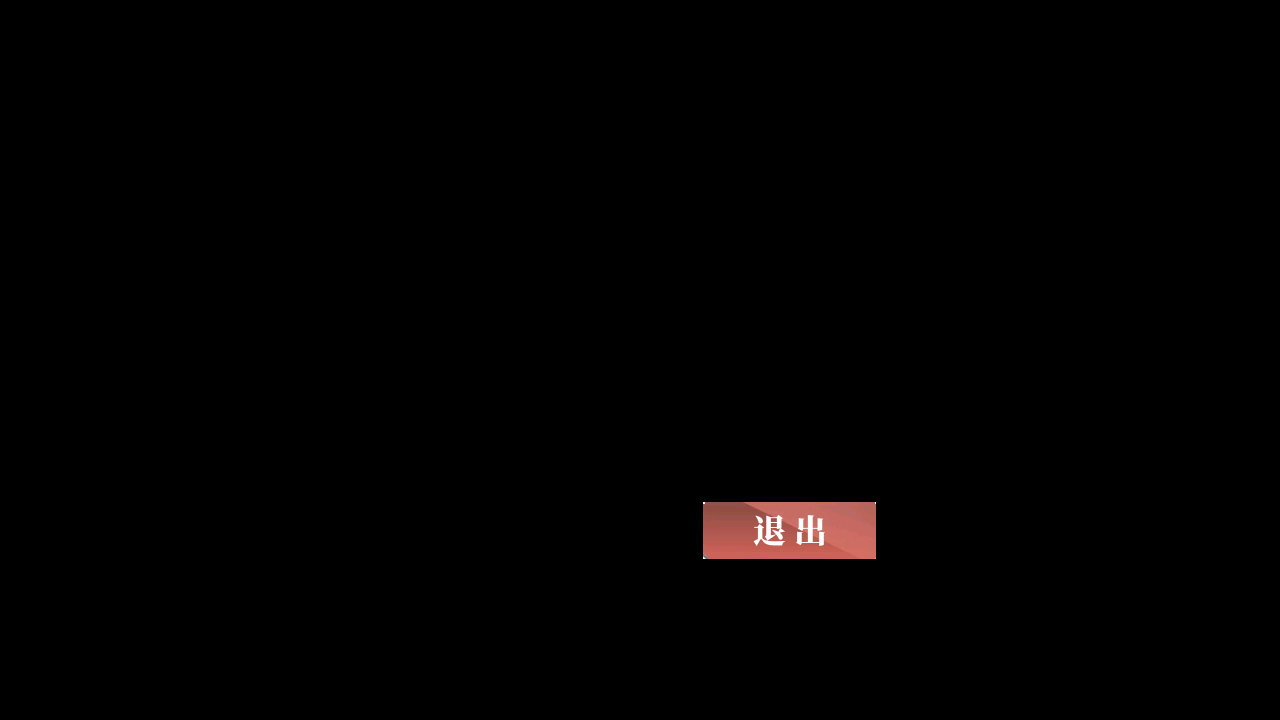
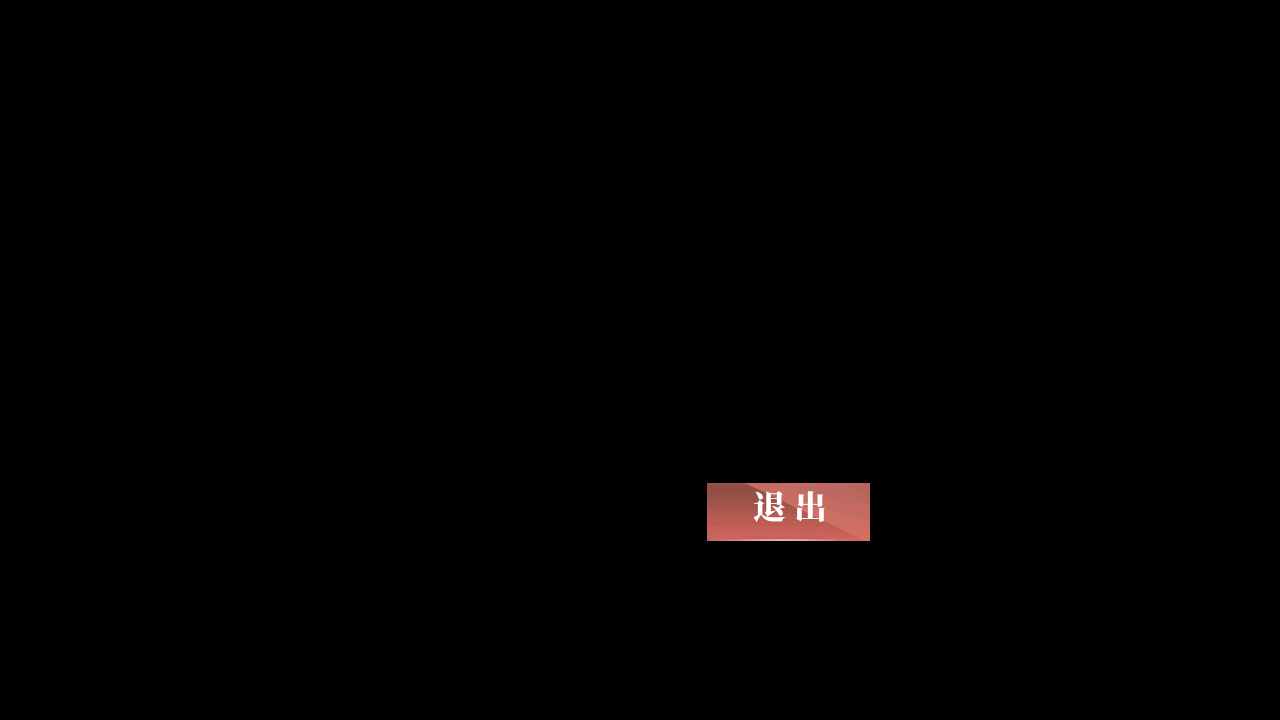
Fix:[TW]exercise QUIT_RECONFIRM.png

Changed region(s): [[0.5312, 0.6722, 0.6875, 0.7944]]

diff --git a/module/exercise/assets.py b/module/exercise/assets.py
@@ -18,4 +18,4 @@ OPPONENT_2 = Button(area={'cn': (348, 77, 560, 381), 'en': (348, 77, 562, 381), 
 OPPONENT_3 = Button(area={'cn': (592, 77, 804, 381), 'en': (592, 77, 806, 381), 'jp': (592, 77, 804, 381), 'tw': (592, 77, 804, 381)}, color={'cn': (106, 131, 158), 'en': (105, 129, 156), 'jp': (106, 131, 158), 'tw': (106, 131, 158)}, button={'cn': (592, 77, 804, 381), 'en': (592, 77, 806, 381), 'jp': (592, 77, 804, 381), 'tw': (592, 77, 804, 381)}, file={'cn': './assets/cn/exercise/OPPONENT_3.png', 'en': './assets/en/exercise/OPPONENT_3.png', 'jp': './assets/jp/exercise/OPPONENT_3.png', 'tw': './assets/tw/exercise/OPPONENT_3.png'})
 OPPONENT_4 = Button(area={'cn': (836, 77, 1048, 381), 'en': (836, 77, 1050, 381), 'jp': (836, 77, 1048, 381), 'tw': (836, 77, 1048, 381)}, color={'cn': (103, 118, 141), 'en': (112, 127, 152), 'jp': (103, 118, 141), 'tw': (103, 118, 141)}, button={'cn': (836, 77, 1048, 381), 'en': (836, 77, 1050, 381), 'jp': (836, 77, 1048, 381), 'tw': (836, 77, 1048, 381)}, file={'cn': './assets/cn/exercise/OPPONENT_4.png', 'en': './assets/en/exercise/OPPONENT_4.png', 'jp': './assets/jp/exercise/OPPONENT_4.png', 'tw': './assets/tw/exercise/OPPONENT_4.png'})
 QUIT_CONFIRM = Button(area={'cn': (420, 490, 593, 548), 'en': (419, 489, 594, 549), 'jp': (433, 490, 606, 547), 'tw': (433, 490, 606, 547)}, color={'cn': (199, 122, 114), 'en': (201, 123, 115), 'jp': (196, 120, 113), 'tw': (200, 126, 118)}, button={'cn': (420, 490, 593, 548), 'en': (419, 489, 594, 549), 'jp': (433, 490, 606, 547), 'tw': (433, 490, 606, 547)}, file={'cn': './assets/cn/exercise/QUIT_CONFIRM.png', 'en': './assets/en/exercise/QUIT_CONFIRM.png', 'jp': './assets/jp/exercise/QUIT_CONFIRM.png', 'tw': './assets/tw/exercise/QUIT_CONFIRM.png'})
-QUIT_RECONFIRM = Button(area={'cn': (703, 492, 877, 550), 'en': (710, 488, 870, 532), 'jp': (703, 482, 877, 539), 'tw': (703, 502, 876, 559)}, color={'cn': (195, 111, 102), 'en': (194, 112, 103), 'jp': (193, 112, 104), 'tw': (194, 111, 103)}, button={'cn': (703, 492, 877, 550), 'en': (710, 488, 870, 532), 'jp': (703, 482, 877, 539), 'tw': (703, 502, 876, 559)}, file={'cn': './assets/cn/exercise/QUIT_RECONFIRM.png', 'en': './assets/en/exercise/QUIT_RECONFIRM.png', 'jp': './assets/jp/exercise/QUIT_RECONFIRM.png', 'tw': './assets/tw/exercise/QUIT_RECONFIRM.png'})
+QUIT_RECONFIRM = Button(area={'cn': (703, 492, 877, 550), 'en': (710, 488, 870, 532), 'jp': (703, 482, 877, 539), 'tw': (707, 483, 870, 541)}, color={'cn': (195, 111, 102), 'en': (194, 112, 103), 'jp': (193, 112, 104), 'tw': (194, 113, 105)}, button={'cn': (703, 492, 877, 550), 'en': (710, 488, 870, 532), 'jp': (703, 482, 877, 539), 'tw': (707, 483, 870, 541)}, file={'cn': './assets/cn/exercise/QUIT_RECONFIRM.png', 'en': './assets/en/exercise/QUIT_RECONFIRM.png', 'jp': './assets/jp/exercise/QUIT_RECONFIRM.png', 'tw': './assets/tw/exercise/QUIT_RECONFIRM.png'})
